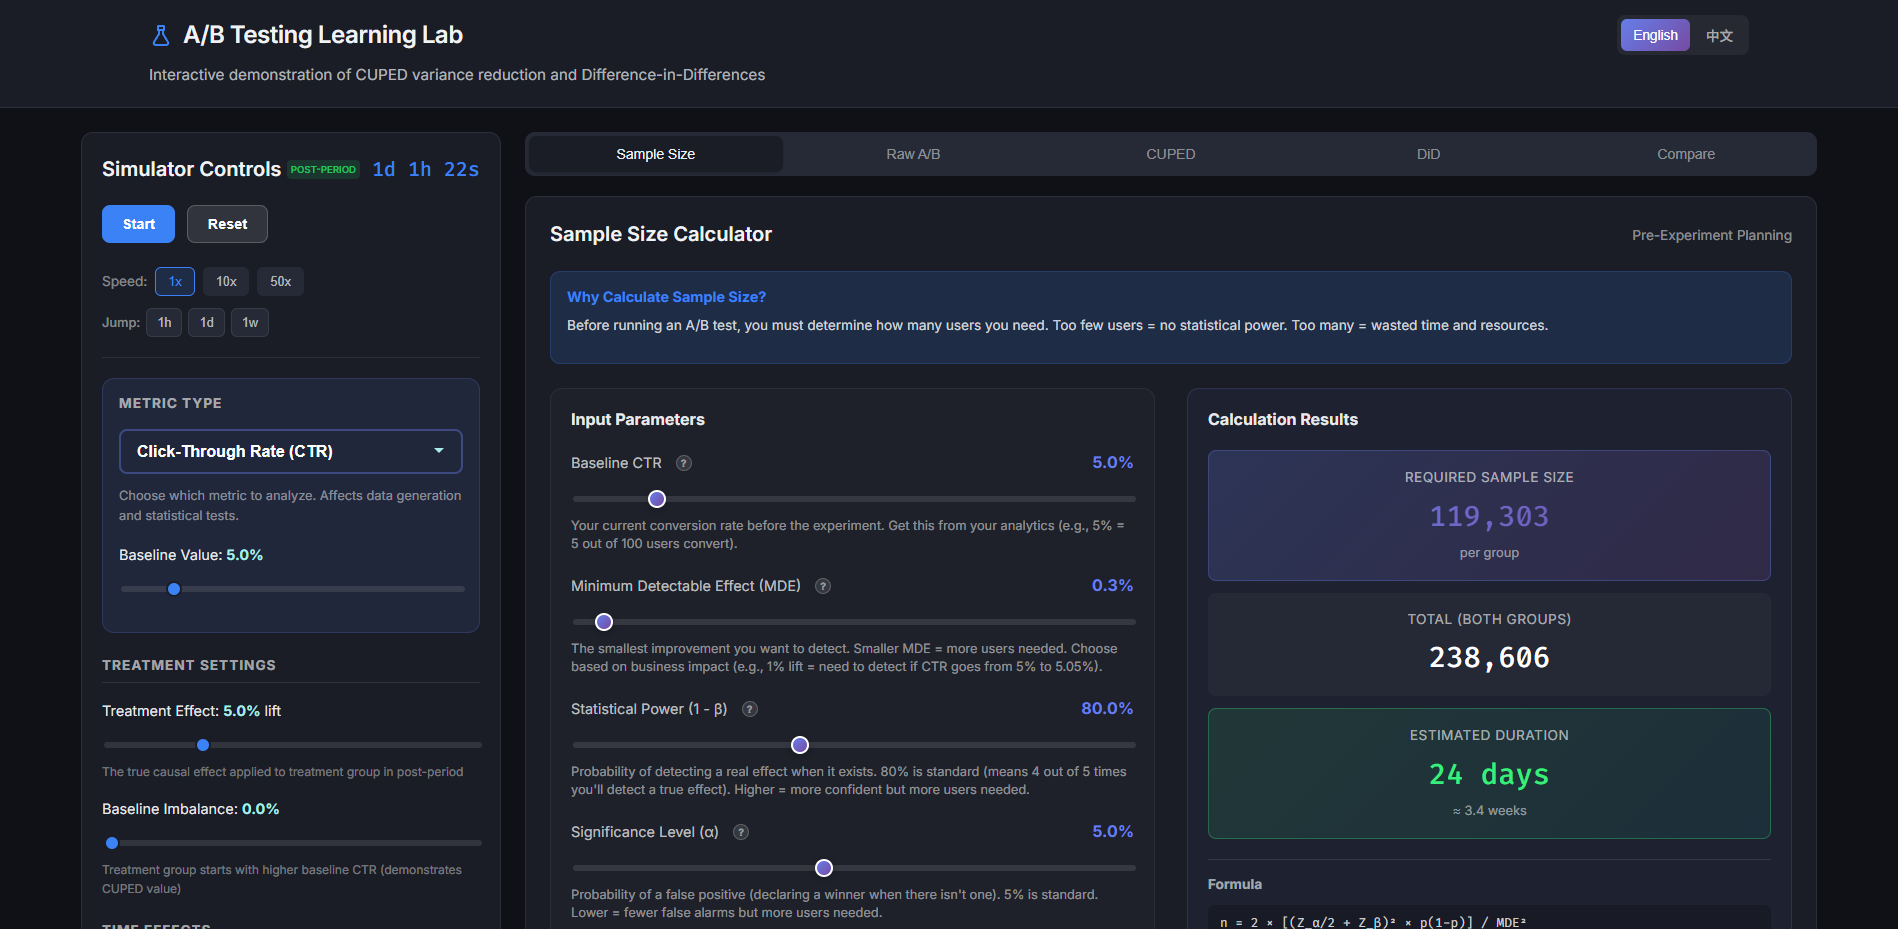
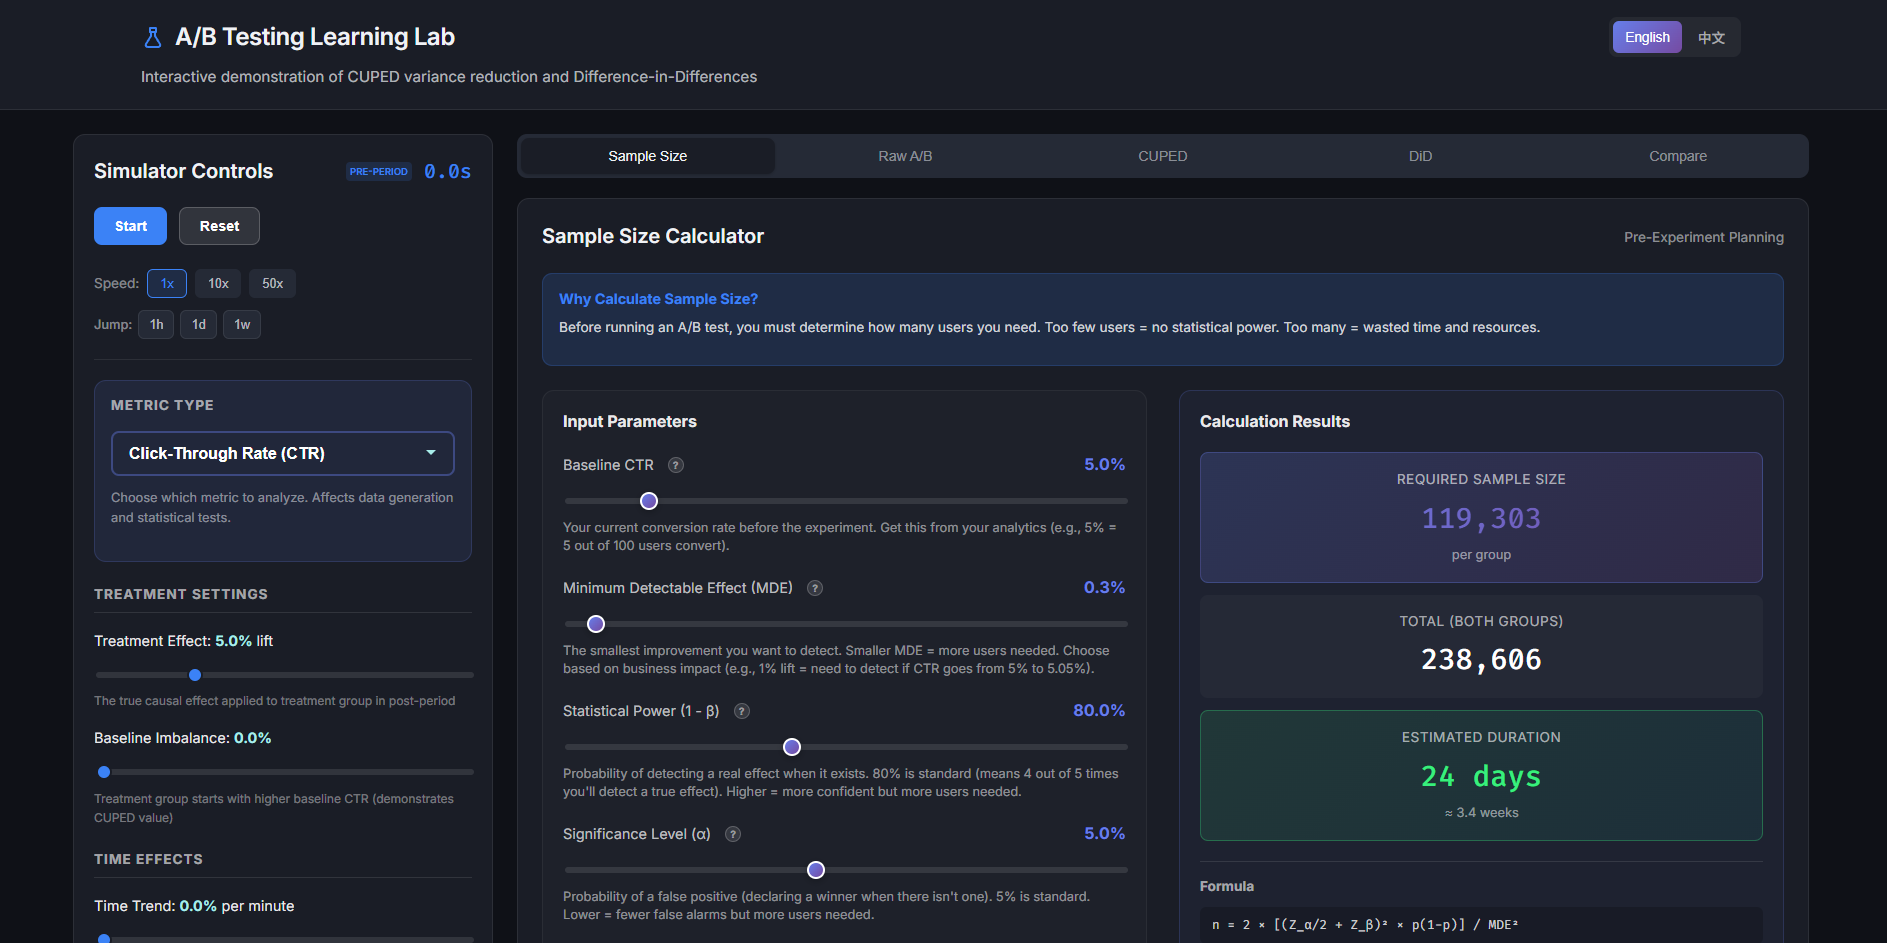
Update screenshot.

diff --git a/ab-test/src/components/ControlPanel.tsx b/ab-test/src/components/ControlPanel.tsx
@@ -15,23 +15,7 @@ interface ControlPanelProps {
     onFastForward: (days: number) => void;
 }
 
-// Helper to format baseline value based on metric type
-function formatBaselineValue(value: number, metricType: MetricType, language: string): string {
-    const config = METRIC_CONFIGS[metricType];
-    const currencySymbol = language === 'zh' ? '¥' : '$';
-    const timeUnit = language === 'zh' ? '秒' : 's';
 
-    switch (config.unit) {
-        case 'percent':
-            return `${(value * 100).toFixed(1)}%`;
-        case 'currency':
-            return `${currencySymbol}${value.toFixed(2)}`;
-        case 'time':
-            return `${value.toFixed(0)}${timeUnit}`;
-        default:
-            return value.toFixed(2);
-    }
-}
 
 // Helper to format duration
 function formatDuration(seconds: number, t: any): string {
@@ -74,7 +58,7 @@ export function ControlPanel({
     const { t, language } = useLanguage();
     const helpTitle = language === 'zh' ? t('helpTitleZh') : t('helpTitle');
     const isPrePeriod = elapsedTime < config.launchTime;
-    const metricConfig = METRIC_CONFIGS[config.metricType];
+
 
     const handleMetricChange = (newMetricType: MetricType) => {
         const newMetricConfig = METRIC_CONFIGS[newMetricType];
@@ -160,21 +144,6 @@ export function ControlPanel({
                     </select>
                 </div>
                 <p className="hint">{t('metricSelectorDesc')}</p>
-
-                <div className="slider-group">
-                    <label>
-                        {t('baselineValue')}: <strong>{formatBaselineValue(config.baselineValue, config.metricType, language)}</strong>
-                    </label>
-                    <input
-                        type="range"
-                        min={metricConfig.minValue}
-                        max={metricConfig.maxValue}
-                        step={metricConfig.step}
-                        value={config.baselineValue}
-                        onChange={(e) => onUpdateConfig({ baselineValue: parseFloat(e.target.value) })}
-                        disabled={isRunning}
-                    />
-                </div>
             </div>
 
             <div className="control-section">
